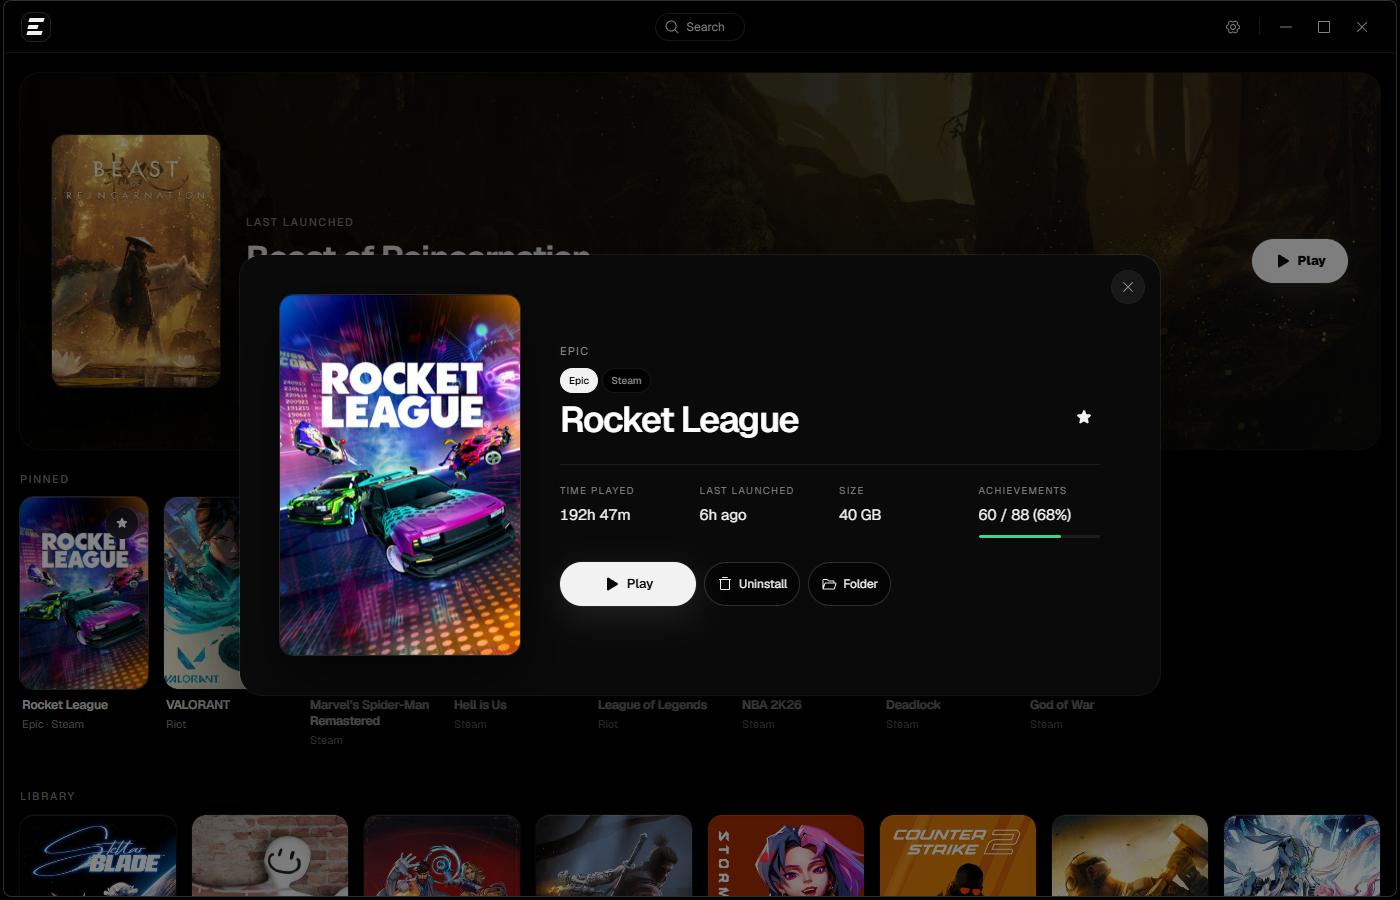
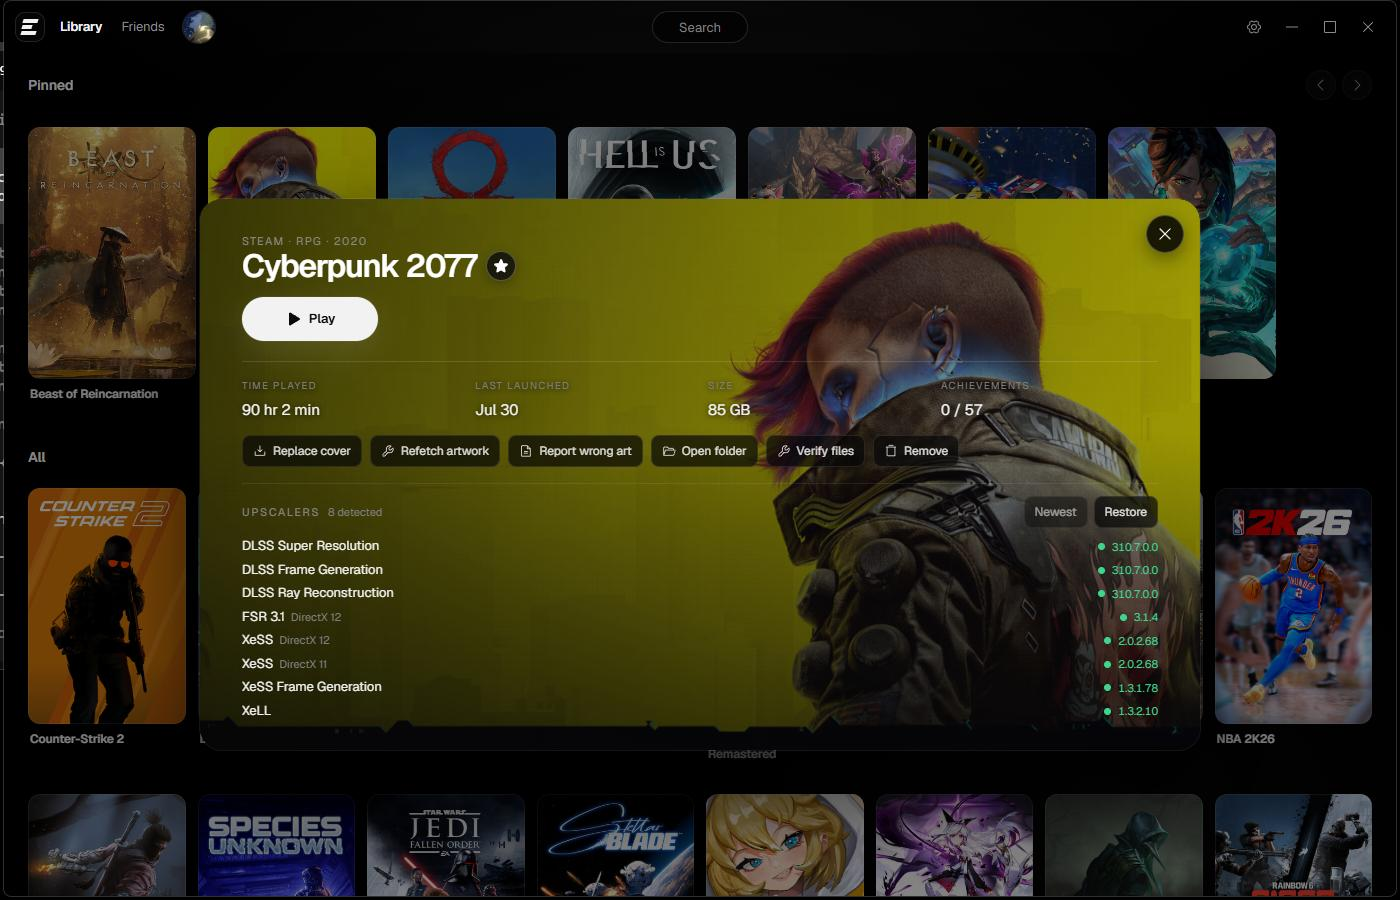
Update GitHub page screenshots for Exo Launcher 2.0

diff --git a/docs/index.html b/docs/index.html
@@ -87,15 +87,19 @@
       </section>
       <figure>
         <img src="media/home.jpg" alt="Exo Launcher library" />
-        <figcaption>One local-first library. Active work stays compact; recent-only state gets out of the way.</figcaption>
+        <figcaption>Pinned covers, then the installed library. No decorative last-played hero.</figcaption>
       </figure>
       <figure>
-        <img src="media/game.jpg" alt="Game page with cover, facts, and Play" />
-        <figcaption>Open a title. Progress and Play live here. Store chrome stays hidden.</figcaption>
+        <img src="media/game.jpg" alt="Game page with cover, facts, Play, and artwork tools" />
+        <figcaption>Open a title. Play, artwork, and upscalers live here. Store chrome stays hidden.</figcaption>
       </figure>
       <figure>
-        <img src="media/settings.jpg" alt="Settings — detected stores and achievement placement" />
-        <figcaption>Stores that are on the PC. Achievement placement if you want it.</figcaption>
+        <img src="media/profile.jpg" alt="Exo profile with showcase and trophy cabinet" />
+        <figcaption>An Exo profile if you want one: handle, badges, showcase, and trophies.</figcaption>
+      </figure>
+      <figure>
+        <img src="media/settings.jpg" alt="Settings — stores on this PC" />
+        <figcaption>Each store on the PC, with honest capability state. Not a fake catalog.</figcaption>
       </figure>
     </main>
   </body>

diff --git a/tests/ExoLauncher.Tests/VersionHonestyTests.cs b/tests/ExoLauncher.Tests/VersionHonestyTests.cs
@@ -35,7 +35,7 @@ public sealed class VersionHonestyTests
         Assert.Contains("POST /api/auth/sign-up/email", security, StringComparison.Ordinal);
         Assert.Contains("DPAPI", security, StringComparison.Ordinal);
         Assert.Contains("salted Scrypt hashes", adr, StringComparison.OrdinalIgnoreCase);
-        Assert.Contains("deployed the optional exo-id stack", changelog, StringComparison.OrdinalIgnoreCase);
+        Assert.Contains("Deployed the Cloudflare exo-id Worker", changelog, StringComparison.OrdinalIgnoreCase);
         Assert.DoesNotContain("password grant", privacy, StringComparison.OrdinalIgnoreCase);
         Assert.DoesNotContain("password grant", adr, StringComparison.OrdinalIgnoreCase);
     }

diff --git a/README.md b/README.md
@@ -27,7 +27,7 @@
 </p>
 
 <p align="center">
-  <img src="docs/media/home.jpg" alt="Exo Launcher home — Now plate, pinned row, library" width="920" />
+  <img src="docs/media/home.jpg" alt="Exo Launcher library — pinned covers and installed games" width="920" />
 </p>
 
 ## What’s new in 2.0
@@ -48,7 +48,7 @@ Home uses a compact Now dock only while a game is playing, transferring, or awai
 An Exo account is optional. You can create one with an email address and a 12–128-character password. Email verification and password recovery are not available yet. Signed out or offline, the library, install, update, launch, and local settings paths still work. There are no ads, tray agent, or analytics.
 
 <p align="center">
-  <img src="docs/media/game.jpg" alt="Game page — cover, facts, Play" width="920" />
+  <img src="docs/media/game.jpg" alt="Game page — full-bleed cover, Play, artwork tools, upscalers" width="920" />
 </p>
 
 - **Now** — a compact active-state dock for downloading, playing, or updates. Recent-only state does not reserve space.
@@ -62,7 +62,11 @@ An Exo account is optional. You can create one with an email address and a 12–
 - **Optional online modules** — implemented reserved handles, privacy-controlled profile/media, friend requests, verified store links, mutual Steam discovery, fixed server-managed profile badges, and friend presence. No chat. Signed out or offline remains a complete local launcher; unavailable presence stays unknown, never fabricated offline.
 
 <p align="center">
-  <img src="docs/media/settings.jpg" alt="Settings — stores, updates, achievement placement" width="920" />
+  <img src="docs/media/profile.jpg" alt="Exo profile — handle, badges, showcase, trophy cabinet" width="920" />
+</p>
+
+<p align="center">
+  <img src="docs/media/settings.jpg" alt="Settings — stores on this PC and what each one can do" width="920" />
 </p>
 
 ## Store reality

diff --git a/docs/releases/v2.0.0.md b/docs/releases/v2.0.0.md
@@ -1,0 +1,19 @@
+# Exo Launcher 2.0.0
+
+**Online identity, truthful libraries, and a launcher that stays out of the way.**
+
+Install, update, and play from Exo. Steam, Epic, GOG, and Riot remain the backends. Their windows stay hidden. Progress lives in Exo.
+
+## This release
+
+- **Exo accounts** — email/password, reserved handles, uploaded avatars/banners/GIFs, privacy, friends, blocking, badges, and friends-only presence.
+- **Honest ownership** — a linked Steam, Epic, or GOG identity belongs to one Exo profile. Refunds become **Buy again**. Unknown provider data is not treated as offline or owned.
+- **Library** — pinned covers, virtualized installed games, compact search. A Now dock only while something is playing, transferring, or awaiting an update.
+- **Game page** — Play, artwork replace/refetch/report, folder, verify, remove, and optional signed-vendor upscalers on one surface.
+- **Steam / Epic / GOG / Riot** — install, update, uninstall, and launch through the existing official or first-party helpers. Xbox, EA, Ubisoft, Battle.net, Amazon, and Rockstar list and launch proven installs.
+
+Windows 11 x64. Per-user install under `%LOCALAPPDATA%\ExoLauncher\app`.
+
+Google sign-in and email magic links are not enabled. Email/password accounts are live.
+
+The installer is not code-signed. Verify the SHA-256 digest on the asset if you want an independent check.

diff --git a/CHANGELOG.md b/CHANGELOG.md
@@ -12,6 +12,7 @@
 - Hardened optional DLSS, FSR, and XeSS updates with signed-vendor validation, correct x64 PE export parsing, official-source preference, semantic version truth, persistent caches, safe restore, and neutral states for unusable destinations
 - Added a compact active Now dock, responsive virtualized libraries, smoother preloading, faster cached startup, cleaner search, game-detail title actions, controller navigation, and extensive accessibility/reduced-motion contracts
 - Deployed the Cloudflare exo-id Worker with D1, R2, per-user Durable Object presence, strict privacy/rate limits, and offline fail-open behavior for the local launcher
+- Replaced GitHub page and README screenshots with the current library, game, profile, and settings surfaces
 
 Google sign-in and email magic links remain unavailable until real provider credentials are configured. Email/password accounts are live.
 
